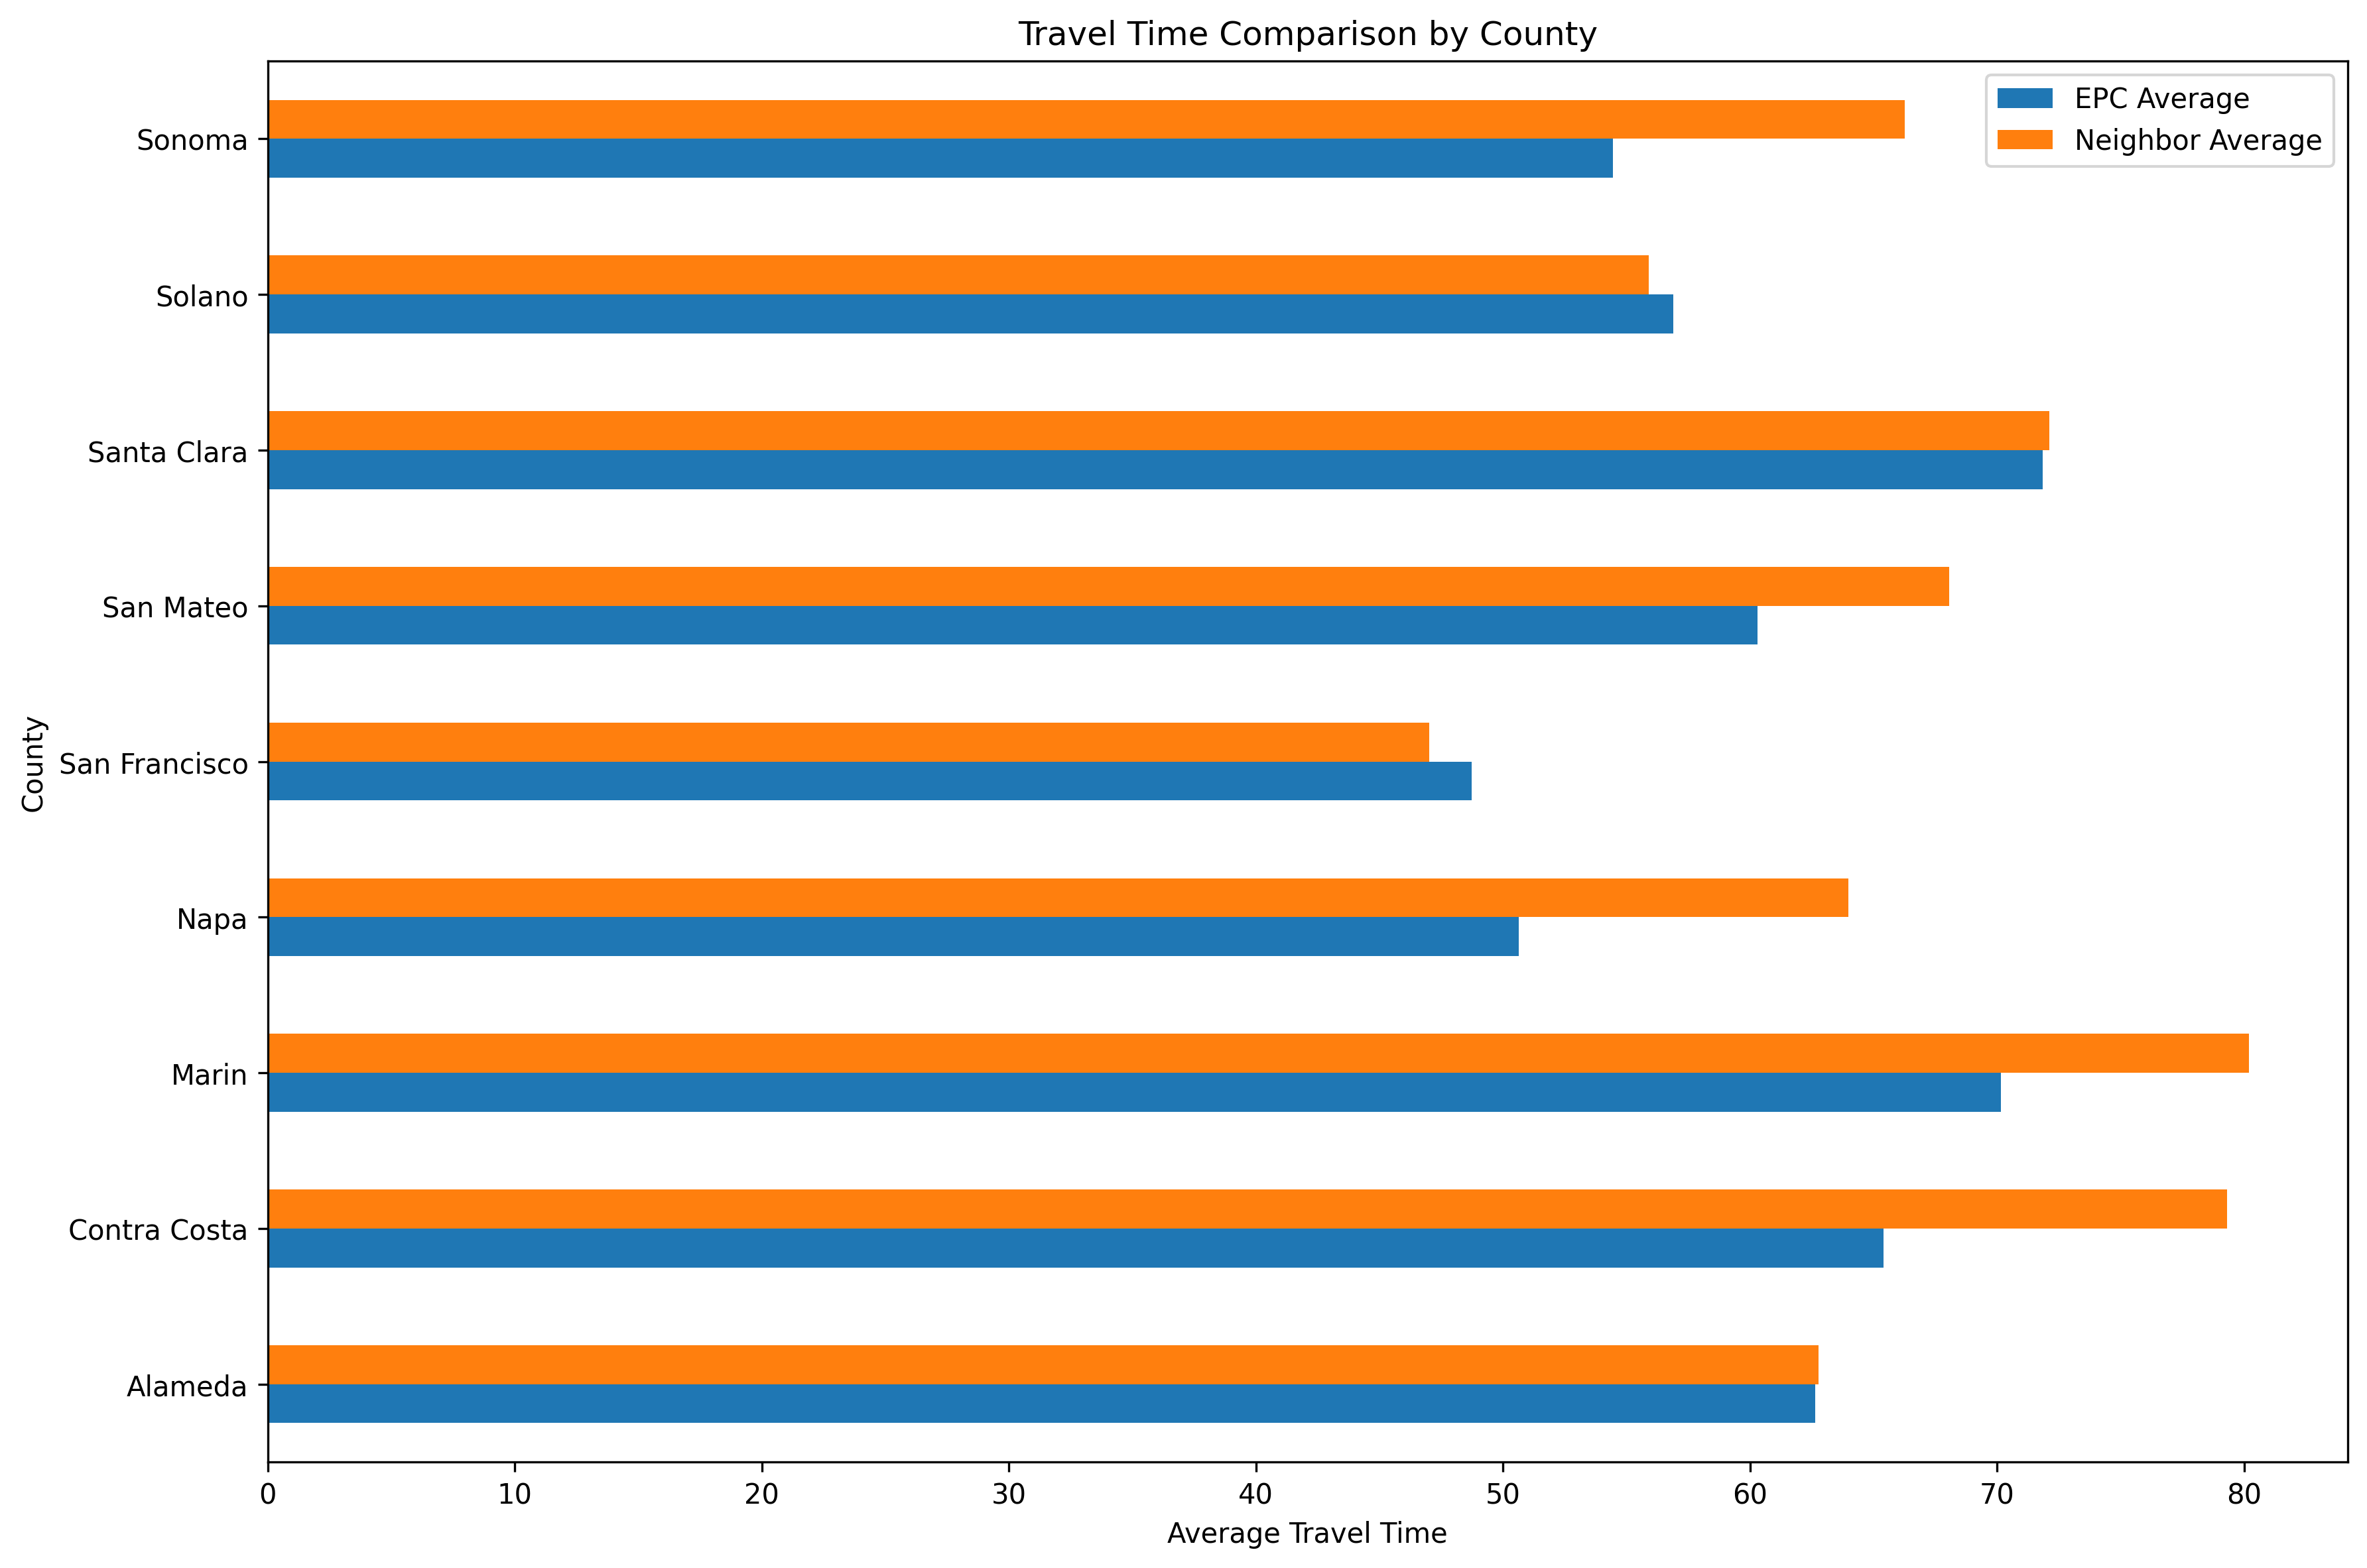
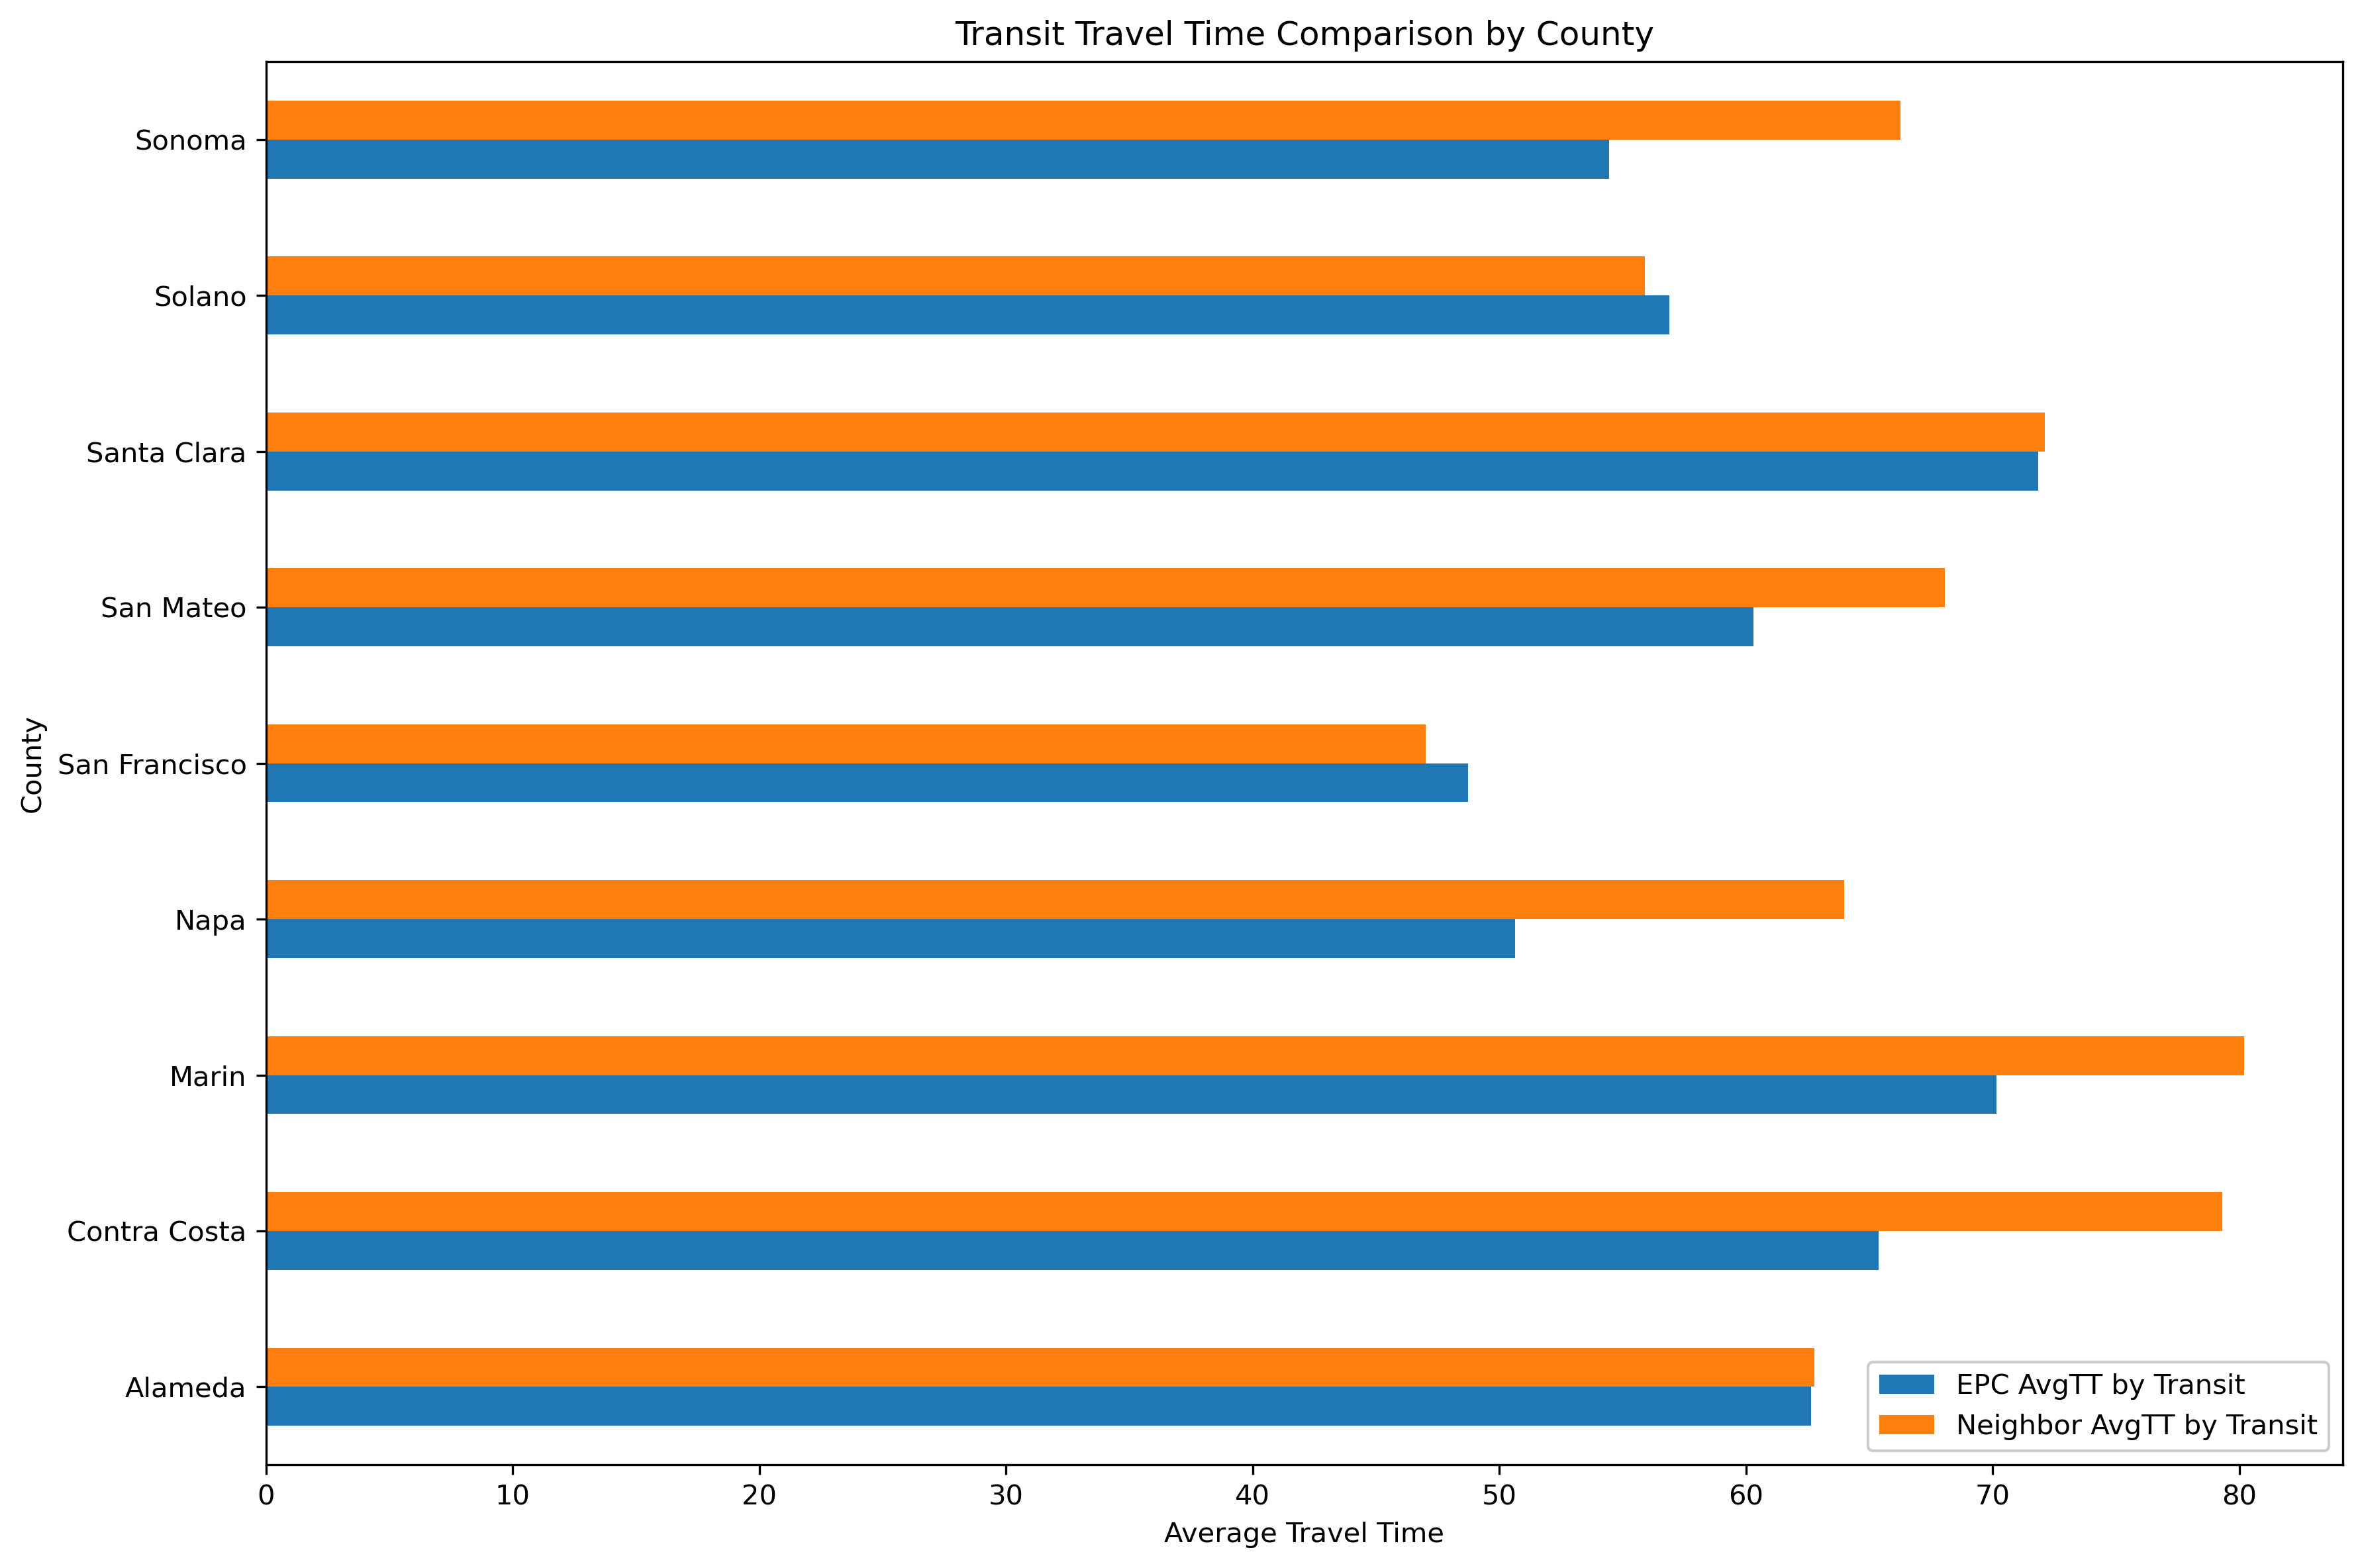
updates to webpage content

diff --git a/docs/index.html b/docs/index.html
@@ -564,8 +564,8 @@
       <h1>How does Bay Area average daily commuting mobility vary between EPCs and non-EPCs, using daytime population data from 2023?</h1>
       <p class="hero-sub">
         <li>How does the net change in daytime commuters in EPCs compare to non-EPC tracts?</li>
-        <li>How does the percentage of commuters in EPCs compare to surrounding census tracts?</li>
-        <li>Does the average resident in an EPC travel further distances and for longer periods of time to work than the average resident of the surrounding census tracts and neighbourhoods?</li>
+        <li>Does the average resident in an EPC travel for longer periods of time to work than the average resident of the surrounding census tracts and neighbourhoods?</li>
+        <li>Does transit accessibility look different between EPCs and their neighbouring communities based on the average commute pattern within the tract?</li>
       </p>
     </div>
   </header>
@@ -983,16 +983,26 @@
     <!-- CONCLUSION -->
     <section class="conclusion fade-in">
       <p class="section-number">Conclusion</p>
-      <h2>XXX</h2>
+      <h2>Transit accessibility is still lacking for EPC employment destinations.</h2>
       <p class="body-text">
-        The Bay Area's spatial distribution of residential and employment locations creates an unequal distribution of commute time costs. 
+        Daily commute patterns throughout the Bay Area are more heavily dependent on region and location than EPC status. 
+        EPCs that 'import' and 'export' workers, with no obvious difference between EPCs and their nearest neighbours.
       </p>
       <p class="body-text">
-        XXX
+        The Bay Area's spatial distribution of residential and employment locations creates an unequal distribution of commute time costs. 
+        By comparing car travel time between EPCs and their neighbours, neighbouring tracts often travel for longer times (and therefore distances) than EPCs. 
+        This pattern is especially noticeable in more suburban counties such as Marin and Sonoma, which may be because higher income neighbourhoods may travel further to employment centers in San Francisco or Santa Clara. 
+
+        Comparing average trip times by car vs by transit in EPCs and their neighbouring tracts, based on the distribution of commute patterns, travel time by transit is much higher in EPCs than in non-EPCs.
+        Again, this could be explained by the tendency for higher-paying jobs to be near employment centers which are more easily accessible by transit.
+
+        
+
+        
       </p>
       <div class="policy-box">
         <strong>Policy implication</strong>
-        XXX
+        Investment in public transit should focus on workplace, school, and care destinations, in addition to the traditional suburb to downtown commute pattern. 
       </div>
     </section>
 

diff --git a/scripts/05_pub_trans_mobility.py b/scripts/05_pub_trans_mobility.py
@@ -327,8 +327,8 @@ bay_geocode_map = {'06001': 'Alameda',
 
 
 county_tt_plot = pd.DataFrame({
-    'EPC Average': epc_county_avg,
-    'Neighbor Average': neigh_county_avg
+    'EPC AvgTT by Transit': epc_county_avg,
+    'Neighbor AvgTT by Transit': neigh_county_avg
 })
 
 county_tt_plot['county_name'] = county_tt_plot.index.map(bay_geocode_map)
@@ -338,14 +338,16 @@ print(county_tt_plot.head(10))
 #%%
 county_tt_plot.set_index('county_name').plot(kind='barh', figsize=(12, 8))
 
-plt.title('Travel Time Comparison by County')
+plt.title('Transit Travel Time Comparison by County')
 plt.xlabel('Average Travel Time')
 plt.ylabel('County')
-plt.legend()
+plt.legend(loc='lower right', frameon=True, framealpha=1)
 plt.tight_layout()
 
 save_path = base_path / "visualizations" / "county_avg_tt.png"
 plt.savefig(save_path, dpi=300, bbox_inches='tight')
 
+save_path = base_path / "docs" / "page_assets" / "county_avg_tt.png"
+plt.savefig(save_path, dpi=300, bbox_inches='tight')
 plt.show()
 #%%